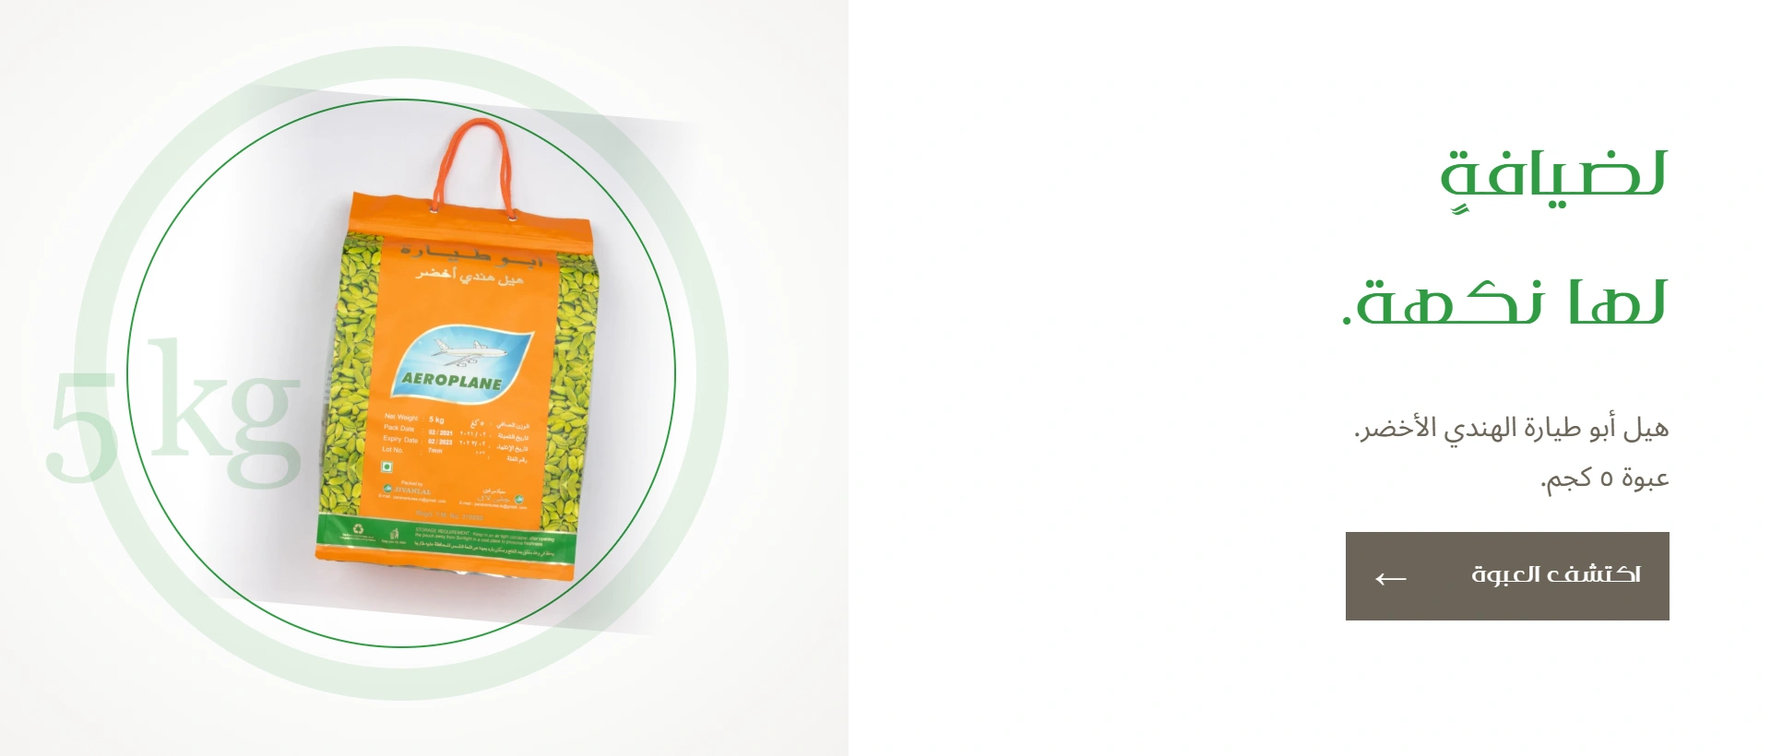
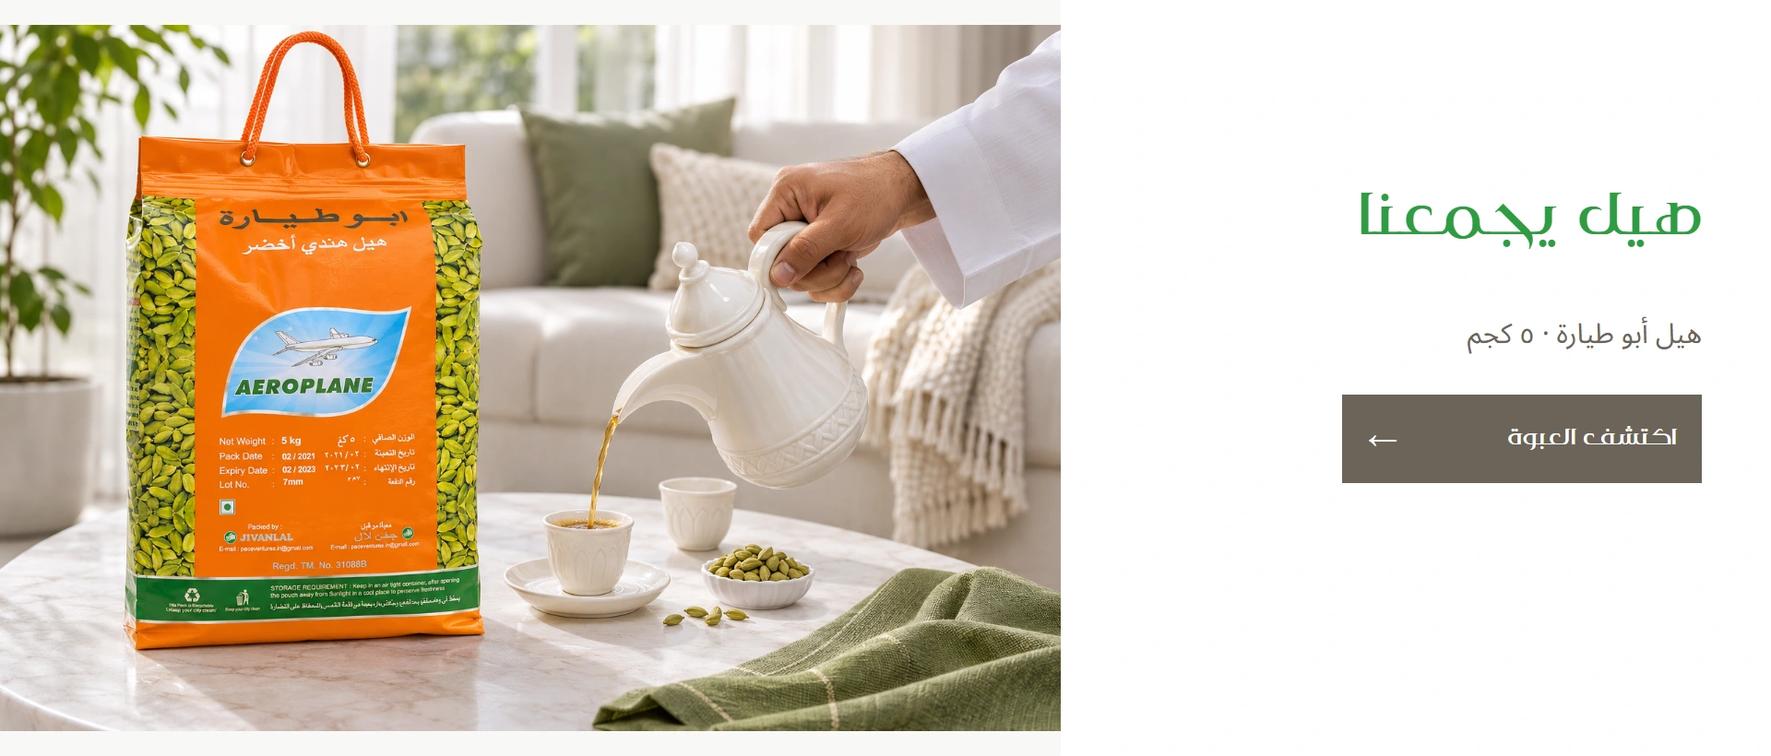
Replace cardamom packshots with lifestyle campaigns and rebuild square mobile layouts

diff --git a/site/almustaneer/index.html b/site/almustaneer/index.html
@@ -1,6 +1,6 @@
 <!doctype html>
 <html lang="ar" dir="rtl">
-<head><meta charset="utf-8"><meta name="viewport" content="width=device-width,initial-scale=1"><meta name="theme-color" content="#153f30"><meta name="robots" content="noindex,nofollow"><meta name="description" content="اكتشف تشكيلة المستنير من البن والهيل، وقارن العبوات وجهّز قائمة استفسارك."><title>المستنير | أصل الضيافة، بنّ وهيل</title><link rel="icon" href="assets/logo.png"><link rel="preload" href="assets/etab.otf" as="font" type="font/otf" crossorigin><link rel="stylesheet" href="styles.css?v=4"><link rel="stylesheet" href="responsive-fixes.css?v=4"><link rel="stylesheet" href="campaigns.css?v=5"><link rel="stylesheet" href="white-theme.css?v=9"></head>
+<head><meta charset="utf-8"><meta name="viewport" content="width=device-width,initial-scale=1"><meta name="theme-color" content="#153f30"><meta name="robots" content="noindex,nofollow"><meta name="description" content="اكتشف تشكيلة المستنير من البن والهيل، وقارن العبوات وجهّز قائمة استفسارك."><title>المستنير | أصل الضيافة، بنّ وهيل</title><link rel="icon" href="assets/logo.png"><link rel="preload" href="assets/etab.otf" as="font" type="font/otf" crossorigin><link rel="stylesheet" href="styles.css?v=4"><link rel="stylesheet" href="responsive-fixes.css?v=4"><link rel="stylesheet" href="campaigns.css?v=5"><link rel="stylesheet" href="white-theme.css?v=10"></head>
 <body>
 <a class="skip" href="#main">انتقل إلى المحتوى</a>
 <div class="announcement">البنّ والهيل… تفاصيل الضيافة تبدأ هنا <span>معاينة · أسعار تجريبية · الطلب غير مفعّل</span></div>
@@ -10,18 +10,18 @@
  <div class="header-tools"><button class="icon-btn" id="search-toggle" aria-label="البحث في المنتجات"><svg viewBox="0 0 24 24"><circle cx="10.5" cy="10.5" r="6.5"/><path d="m16 16 5 5"/></svg></button><button class="icon-btn quote-open" aria-label="فتح قائمة الاستفسار"><svg viewBox="0 0 24 24"><path d="M5 7h14l1 14H4L5 7Z M8 8V6a4 4 0 0 1 8 0v2"/></svg><span id="quote-count">0</span></button><button class="icon-btn mobile-menu" aria-label="فتح القائمة" aria-expanded="false" aria-controls="navigation"><svg viewBox="0 0 24 24"><path d="M3 6h18M3 12h18M3 18h18"/></svg></button></div>
 </div></header>
 <main id="main">
-<section class="campaign campaign-hero" aria-label="أصل الضيافة، يبدأ من هنا."><h1 class="sr-only">أصل الضيافة، يبدأ من هنا.</h1><a class="campaign-link" href="#collection" data-category="all" aria-label="أصل الضيافة، يبدأ من هنا. — تصفّح التشكيلة"><picture><source media="(max-width:700px)" srcset="banners-white/hero-mobile.webp?v=9"><img src="banners-white/hero-desktop.webp?v=9" width="1920" height="820" fetchpriority="high" alt="أصل الضيافة، يبدأ من هنا. — اكتشف البنّ"></picture></a></section>
+<section class="campaign campaign-hero" aria-label="أصل الضيافة، يبدأ من هنا."><h1 class="sr-only">أصل الضيافة، يبدأ من هنا.</h1><a class="campaign-link" href="#collection" data-category="all" aria-label="أصل الضيافة، يبدأ من هنا. — تصفّح التشكيلة"><picture><source media="(max-width:700px)" srcset="banners-white/hero-mobile.webp?v=10"><img src="banners-white/hero-desktop.webp?v=10" width="1920" height="820" fetchpriority="high" alt="أصل الضيافة، يبدأ من هنا. — اكتشف البنّ"></picture></a></section>
 <div class="category-rail wrap"><a href="#collection" data-category="coffee"><span>البنّ</span><small>اختيارك يبدأ من الحبة</small><svg viewBox="0 0 24 24"><path d="M20 12H4m6-6-6 6 6 6"/></svg></a><a href="#collection" data-category="cardamom"><span>الهيل</span><small>التفصيلة التي تصنع النكهة</small><svg viewBox="0 0 24 24"><path d="M20 12H4m6-6-6 6 6 6"/></svg></a><a href="#collection" data-category="bulk"><span>عبوات الجملة</span><small>خيارات تناسب احتياج نشاطك</small><svg viewBox="0 0 24 24"><path d="M20 12H4m6-6-6 6 6 6"/></svg></a></div>
 <section id="collection" class="collection wrap"><div class="section-heading"><div><h2>من أصول الضيافة</h2><p>تعرّف على الأصناف، واختر العبوة المناسبة لك.</p></div><span id="result-count" class="result-count" aria-live="polite"></span></div>
 <div class="catalog-controls"><div class="filters" role="group" aria-label="تصفية المنتجات"><button data-filter="all" aria-pressed="true">جميع المنتجات</button><button data-filter="coffee" aria-pressed="false">البنّ</button><button data-filter="cardamom" aria-pressed="false">الهيل</button><button data-filter="bulk" aria-pressed="false">عبوات الجملة</button></div><label class="search-box"><svg viewBox="0 0 24 24"><circle cx="10.5" cy="10.5" r="6.5"/><path d="m16 16 5 5"/></svg><input id="search" type="search" placeholder="ابحث عن صنف أو عبوة" aria-label="ابحث عن منتج"></label></div>
 <p class="demo-price-note">الأسعار المعروضة افتراضية لتجربة التصميم، وليست عروض بيع. يُؤكَّد السعر والتوفر قبل أي طلب.</p><div class="products" id="products"></div><div id="empty" class="empty" hidden><h3>لم نجد صنفًا بهذا الاسم</h3><p>جرّب البحث عن «بن» أو «هيل»، أو اعرض التشكيلة كاملة.</p><button id="reset-search" class="button">عرض جميع المنتجات</button></div>
 <p class="catalog-note">صور العبوات مرجعية، وأسعار المعاينة تجريبية. السعر الفعلي والتوفر وبيانات الدفعات تُؤكّد قبل الطلب.</p><button id="show-more" class="button outline">عرض بقية التشكيلة <span id="more-count"></span></button>
 </section>
-<section class="campaign wrap" aria-label="بن هرري، على أصوله."><h2 class="sr-only">بن هرري، على أصوله.</h2><a class="campaign-link" href="#collection" data-category="coffee" aria-label="بن هرري، على أصوله. — تصفّح التشكيلة"><picture><source media="(max-width:700px)" srcset="banners-white/coffee-mobile.webp?v=9"><img src="banners-white/coffee-desktop.webp?v=9" width="1920" height="820" loading="lazy" alt="بن هرري، على أصوله. — اكتشف البنّ"></picture></a></section>
-<section class="campaign wrap" aria-label="لنشاطك، اختيار مدروس."><h2 class="sr-only">لنشاطك، اختيار مدروس.</h2><a class="campaign-link" href="#collection" data-category="bulk" aria-label="لنشاطك، اختيار مدروس. — تصفّح التشكيلة"><picture><source media="(max-width:700px)" srcset="banners-white/bulk-mobile.webp?v=9"><img src="banners-white/bulk-desktop.webp?v=9" width="1920" height="820" loading="lazy" alt="لنشاطك، اختيار مدروس. — جهّز اختياراتك للمحامص والمتاجر"></picture></a></section>
-<section class="campaign wrap" aria-label="تفصيلة صغيرة، تصنع النكهة."><h2 class="sr-only">تفصيلة صغيرة، تصنع النكهة.</h2><a class="campaign-link" href="#collection" data-category="cardamom" aria-label="تفصيلة صغيرة، تصنع النكهة. — تصفّح التشكيلة"><picture><source media="(max-width:700px)" srcset="banners-white/cardamom-mobile.webp?v=9"><img src="banners-white/cardamom-desktop.webp?v=9" width="1920" height="820" loading="lazy" alt="تفصيلة صغيرة، تصنع النكهة. — اكتشف الهيل"></picture></a></section>
-<section class="campaign wrap" aria-label="حجم XL، حضور واضح."><h2 class="sr-only">حجم XL، حضور واضح.</h2><button type="button" class="campaign-link product-campaign" data-detail="3" aria-label="اكتشف هيل أبو طيارة XL، عبوة ٥ كجم"><picture><source media="(max-width:700px)" srcset="banners-white/aeroplane-xl-mobile.webp?v=9"><img src="banners-white/aeroplane-xl-desktop.webp?v=9" width="1920" height="820" loading="lazy" alt="حجم XL، حضور واضح. — اكتشف هيل أبو طيارة XL، عبوة ٥ كجم"></picture></button></section>
-<section class="campaign wrap" aria-label="لضيافة لها نكهة."><h2 class="sr-only">لضيافة لها نكهة.</h2><button type="button" class="campaign-link product-campaign" data-detail="5" aria-label="اكتشف هيل أبو طيارة، العبوة البرتقالية ٥ كجم"><picture><source media="(max-width:700px)" srcset="banners-white/aeroplane-orange-mobile.webp?v=9"><img src="banners-white/aeroplane-orange-desktop.webp?v=9" width="1920" height="820" loading="lazy" alt="لضيافة لها نكهة. — اكتشف هيل أبو طيارة، العبوة البرتقالية ٥ كجم"></picture></button></section>
+<section class="campaign wrap" aria-label="بن هرري، على أصوله."><h2 class="sr-only">بن هرري، على أصوله.</h2><a class="campaign-link" href="#collection" data-category="coffee" aria-label="بن هرري، على أصوله. — تصفّح التشكيلة"><picture><source media="(max-width:700px)" srcset="banners-white/coffee-mobile.webp?v=10"><img src="banners-white/coffee-desktop.webp?v=10" width="1920" height="820" loading="lazy" alt="بن هرري، على أصوله. — اكتشف البنّ"></picture></a></section>
+<section class="campaign wrap" aria-label="لنشاطك، اختيار مدروس."><h2 class="sr-only">لنشاطك، اختيار مدروس.</h2><a class="campaign-link" href="#collection" data-category="bulk" aria-label="لنشاطك، اختيار مدروس. — تصفّح التشكيلة"><picture><source media="(max-width:700px)" srcset="banners-white/bulk-mobile.webp?v=10"><img src="banners-white/bulk-desktop.webp?v=10" width="1920" height="820" loading="lazy" alt="لنشاطك، اختيار مدروس. — جهّز اختياراتك للمحامص والمتاجر"></picture></a></section>
+<section class="campaign wrap" aria-label="تفصيلة صغيرة، تصنع النكهة."><h2 class="sr-only">تفصيلة صغيرة، تصنع النكهة.</h2><a class="campaign-link" href="#collection" data-category="cardamom" aria-label="تفصيلة صغيرة، تصنع النكهة. — تصفّح التشكيلة"><picture><source media="(max-width:700px)" srcset="banners-white/cardamom-mobile.webp?v=10"><img src="banners-white/cardamom-desktop.webp?v=10" width="1920" height="820" loading="lazy" alt="تفصيلة صغيرة، تصنع النكهة. — اكتشف الهيل"></picture></a></section>
+<section class="campaign wrap" aria-label="النكهة تبدأ هنا"><h2 class="sr-only">النكهة تبدأ هنا</h2><button type="button" class="campaign-link product-campaign" data-detail="3" aria-label="اكتشف هيل أبو طيارة XL، عبوة ٥ كجم"><picture><source media="(max-width:700px)" srcset="banners-white/aeroplane-xl-mobile.webp?v=10"><img src="banners-white/aeroplane-xl-desktop.webp?v=10" width="1920" height="820" loading="lazy" alt="النكهة تبدأ هنا — اكتشف هيل أبو طيارة XL، عبوة ٥ كجم"></picture></button></section>
+<section class="campaign wrap" aria-label="هيل يجمعنا"><h2 class="sr-only">هيل يجمعنا</h2><button type="button" class="campaign-link product-campaign" data-detail="5" aria-label="اكتشف هيل أبو طيارة، العبوة البرتقالية ٥ كجم"><picture><source media="(max-width:700px)" srcset="banners-white/aeroplane-orange-mobile.webp?v=10"><img src="banners-white/aeroplane-orange-desktop.webp?v=10" width="1920" height="820" loading="lazy" alt="هيل يجمعنا — اكتشف هيل أبو طيارة، العبوة البرتقالية ٥ كجم"></picture></button></section>
 <section id="wholesale" class="wholesale"><div class="wrap wholesale-inner"><div class="wholesale-copy"><h2>للمحامص والمتاجر،<br>اختيار يبدأ بالتفاصيل.</h2><p>حدّد الأصناف والعبوات والكميات المطلوبة في قائمة واحدة. جهّز استفسارك عن التوفر والسعر، دون أن يفوتك صنف.</p><button class="button cream quote-open">جهّز قائمة استفسارك <svg viewBox="0 0 24 24"><path d="M20 12H4m6-6-6 6 6 6"/></svg></button></div><div class="wholesale-products"><img src="assets/product-12.webp" alt="كيس بن من تشكيلة المستنير" loading="lazy"><img src="assets/product-13.webp" alt="كرتون هيل أبو طيارة XL" loading="lazy"></div></div></section>
 <section id="story" class="story wrap"><div><h2>المستنير.<br>اسم يجمع البنّ والهيل.</h2></div><div><p class="story-lead">من البنّ الهرري إلى الهيل الهندي، تجمع تشكيلة المستنير خيارات من صميم ثقافة القهوة والضيافة.</p><p>نضع تفاصيل العبوة في متناولك، لتقارن بين الأصناف والأحجام وتبدأ اختيارك على معرفة. لأن الفنجان الذي تقدّمه، يبدأ بما تختاره.</p><a href="#collection" class="underlink" data-category="all">تعرّف على التشكيلة <span aria-hidden="true">←</span></a></div></section>
 <section class="faq wrap"><h2>قبل أن تختار</h2><div><details><summary>كيف أختار بين العبوات؟</summary><p>راجع وزن العبوة واسم الصنف في تفاصيل المنتج. بعض الصور تعرض عبوات صغيرة، وأخرى أكياسًا أو كراتين. تفاصيل العبوات غير الواضحة تحتاج تأكيدًا قبل الطلب.</p></details><details><summary>هل الأسعار والتوفر مؤكّدان؟</summary><p>هذه معاينة للتشكيلة بأسعار افتراضية لتجربة التصميم، وليست عروض بيع. لم تُعتمد الأسعار الحقيقية أو كميات المخزون بعد. صور بعض العبوات أرشيفية، ولا تعبّر عن دفعات حالية متاحة للبيع.</p></details><details><summary>كيف أجهّز طلب جملة؟</summary><p>أضف الأصناف إلى قائمة الاستفسار، ثم حدّد عدد العبوات. يمكنك نسخ القائمة أو تنزيلها للاحتفاظ بها. لا تُرسل القائمة تلقائيًا، ولا تُنشئ طلب شراء.</p></details><details><summary>ما خيارات الشحن والدفع؟</summary><p>لا توجد مدفوعات أو عمليات شراء في هذه المعاينة. يمكنك الاطلاع على <a class="underlink" href="policies.html">السياسات المقترحة للبيع والشحن والاسترجاع</a>، على أن تُعتمد تفاصيل التشغيل قبل تفعيل الطلبات.</p></details></div></section>
@@ -29,7 +29,8 @@
 <footer><div class="footer-main wrap"><div><img src="assets/logo.png" alt="شركة المستنير للتجارة الدولية" width="320" height="65"><p>أصل الضيافة، يبدأ من هنا.</p></div><div><h3>اكتشف التشكيلة</h3><a href="#collection" data-category="coffee">البنّ</a><a href="#collection" data-category="cardamom">الهيل</a><a href="#wholesale">طلبات الجملة</a></div><div><h3>المستنير</h3><a href="#story">عن المستنير</a><button class="footer-link quote-open">قائمة الاستفسار</button><p>معاينة تصميمية · غير مفعّلة للبيع</p></div><div><h3>السياسات والمساعدة</h3><a href="policies.html#sales">شروط البيع</a><a href="policies.html#shipping">الشحن والتوصيل</a><a href="policies.html#returns">الاستبدال والاسترجاع</a><a href="policies.html#privacy">سياسة الخصوصية</a></div></div><div class="footer-bottom wrap"><span>شركة المستنير للتجارة الدولية</span><span>البنّ والهيل، بروح الضيافة.</span></div></footer>
 <dialog id="product-dialog" aria-labelledby="detail-title"><button class="dialog-close icon-btn" aria-label="إغلاق تفاصيل المنتج"><svg viewBox="0 0 24 24"><path d="m6 6 12 12M18 6 6 18"/></svg></button><div id="product-detail"></div></dialog>
 <dialog id="quote-dialog" aria-labelledby="quote-title"><button class="dialog-close icon-btn" aria-label="إغلاق قائمة الاستفسار"><svg viewBox="0 0 24 24"><path d="m6 6 12 12M18 6 6 18"/></svg></button><h2 id="quote-title">قائمة استفسارك</h2><p class="quote-intro">أصنافك في مكان واحد. حدّد عدد العبوات، ثم احتفظ بالقائمة للاستفسار عن السعر والتوفر.</p><div id="quote-items"></div><div id="quote-actions"><button class="button" id="copy-quote">نسخ الاستفسار</button><button class="button outline" id="download-quote">تنزيل القائمة</button></div><p class="quote-note">هذه قائمة محلية على جهازك. لا يتم إرسالها أو حجز مخزون أو إنشاء طلب شراء.</p></dialog>
-<div id="toast" role="status" aria-live="polite"></div><script src="products.js?v=9"></script><script src="app.js?v=9"></script>
+<div id="toast" role="status" aria-live="polite"></div><script src="products.js?v=10"></script><script src="app.js?v=10"></script>
 </body></html>
+
 
 

diff --git a/site/almustaneer/lifestyle-studio.html b/site/almustaneer/lifestyle-studio.html
@@ -1,0 +1,6 @@
+<!doctype html><html lang="ar" dir="rtl"><meta charset="utf-8"><title>المستنير — مشاهد الضيافة</title><style>
+@font-face{font-family:Etab;src:url('assets/etab.otf')}@font-face{font-family:Noto;src:url('assets/body.ttf')}*{box-sizing:border-box}body{margin:0;background:white}.canvas{position:relative;width:1920px;height:820px;background:white;color:#6b6458;overflow:hidden}.scene{position:absolute;left:0;top:0;width:1150px;height:820px;display:flex;align-items:center;background:#f8f8f6}.scene img{display:block;width:100%;height:100%;object-fit:contain}.copy{position:absolute;right:75px;top:175px;width:620px}h1{font:400 103px/1.25 Etab;color:#309b42;margin:0 0 32px}p{font:30px/1.8 Noto;margin:0 0 38px}.cta{display:inline-flex;align-items:center;justify-content:space-between;gap:50px;padding:18px 28px;min-width:390px;background:#6b6458;color:#fff;font:40px/1.5 Etab}.arrow{font:32px Arial}.square{width:1080px;height:1080px}.square .scene{width:1080px;height:720px}.square .scene img{object-fit:cover;object-position:left center}.square[data-name="coffee"] .scene img{object-fit:contain}.square .copy{inset:auto 56px 30px;width:968px;height:300px;display:grid;grid-template-columns:1fr auto;grid-template-rows:112px 1fr;align-items:center;column-gap:25px}.square h1{font-size:90px;line-height:1.2;margin:0;grid-column:1/-1;white-space:nowrap}.square p{font-size:43px;line-height:1.5;margin:0}.square .cta{font-size:52px;min-width:365px;min-height:156px;padding:20px 25px;gap:30px}.square .arrow{font-size:40px}
+</style><main class="canvas"><div class="scene"><img alt=""></div><div class="copy"><h1></h1><p></p><div class="cta"><span></span><span class="arrow">←</span></div></div></main><script>
+const q=new URLSearchParams(location.search),name=q.get('campaign')||'aeroplane-xl',mobile=q.get('size')==='mobile';const data={hero:['أصل الضيافة','بنّ وهيل، بروح المستنير.','اكتشف التشكيلة','assets/white-campaigns/hero-desktop.png'],coffee:['بن هرري، على أصوله','أبو غزال · عبوة ٥ كجم','اكتشف البنّ','assets/product-1.webp'],bulk:['اختيار لنشاطك','عبوات للمحامص والمتاجر','تصفّح الجملة','assets/white-campaigns/bulk-desktop.png'],cardamom:['تفصيلة تصنع النكهة','اكتشف تشكيلة الهيل','اكتشف الهيل','assets/white-campaigns/cardamom-desktop.png'],'aeroplane-xl':['النكهة تبدأ هنا','هيل أبو طيارة XL · ٥ كجم','اكتشف هيل XL','assets/white-campaigns/lifestyle-preparation.png'],'aeroplane-orange':['هيل يجمعنا','هيل أبو طيارة · ٥ كجم','اكتشف العبوة','assets/white-campaigns/lifestyle-hospitality.png']};const d=data[name];document.querySelector('.canvas').classList.toggle('square',mobile);document.querySelector('.canvas').dataset.name=name;document.querySelector('.scene img').src=d[3];document.querySelector('h1').textContent=d[0];document.querySelector('p').textContent=d[1];document.querySelector('.cta span').textContent=d[2];
+</script></html>
+
